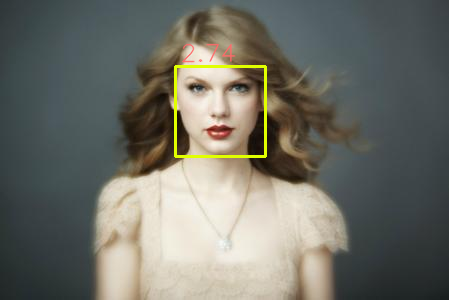
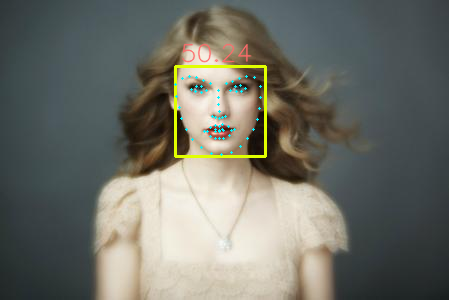
add face landmark detector

Changed region(s): [[0.4053, 0.15, 0.5612, 0.21], [0.4677, 0.39, 0.5301, 0.48], [0.4989, 0.27, 0.5301, 0.3]]

diff --git a/facescore/face_beauty_regressor.py b/facescore/face_beauty_regressor.py
@@ -187,7 +187,7 @@ def PCA(feature_matrix):
     return pca.transform(feature_matrix)
 
 
-def detect_face_and_cal_beauty(face_filepath):
+def detect_face_and_cal_beauty(face_filepath='./talor.jpg'):
     """
     face detection with dlib
     :param face_filepath:
@@ -201,6 +201,8 @@ def detect_face_and_cal_beauty(face_filepath):
         train_model(train_set_vector, test_set_vector, trainset_label, testset_label)
 
     br = joblib.load(config['reg_model'])
+
+    result = det_landmarks(face_filepath)
 
     image = cv2.imread(face_filepath)
     detector = dlib.get_frontal_face_detector()
@@ -222,9 +224,15 @@ def detect_face_and_cal_beauty(face_filepath):
             (extract_conv_feature(roi, layer_name='conv5_1'), extract_conv_feature(roi, layer_name='conv4_1')), axis=0)
         attractiveness = br.predict(feature.reshape(-1, feature.shape[0]))
 
-        cv2.rectangle(image, (d.left(), d.top()), (d.right(), d.bottom()), (0, 255, 225), 2)
-        cv2.putText(image, str(round(attractiveness[0], 2)), (d.left() + 5, d.top() - 5), cv2.FONT_HERSHEY_SIMPLEX, 0.8,
-                    (106, 106, 255), 0, cv2.LINE_AA)
+        for index, face in result.items():
+            # cv2.rectangle(image, (d.left(), d.top()), (d.right(), d.bottom()), (0, 255, 225), 2)
+            cv2.rectangle(image, (face['bbox'][0], face['bbox'][1]), (face['bbox'][2], face['bbox'][3]), (0, 255, 225),
+                          2)
+            cv2.putText(image, str(round(attractiveness[0] * 20, 2)), (d.left() + 5, d.top() - 5),
+                        cv2.FONT_HERSHEY_SIMPLEX, 0.8, (106, 106, 255), 0, cv2.LINE_AA)
+
+            for ldmk in face['landmarks']:
+                cv2.circle(image, (ldmk[0], ldmk[1]), 1, (255, 245, 0), -1)
 
         cv2.imshow('image', image)
         cv2.imwrite('tmp.png', image)
